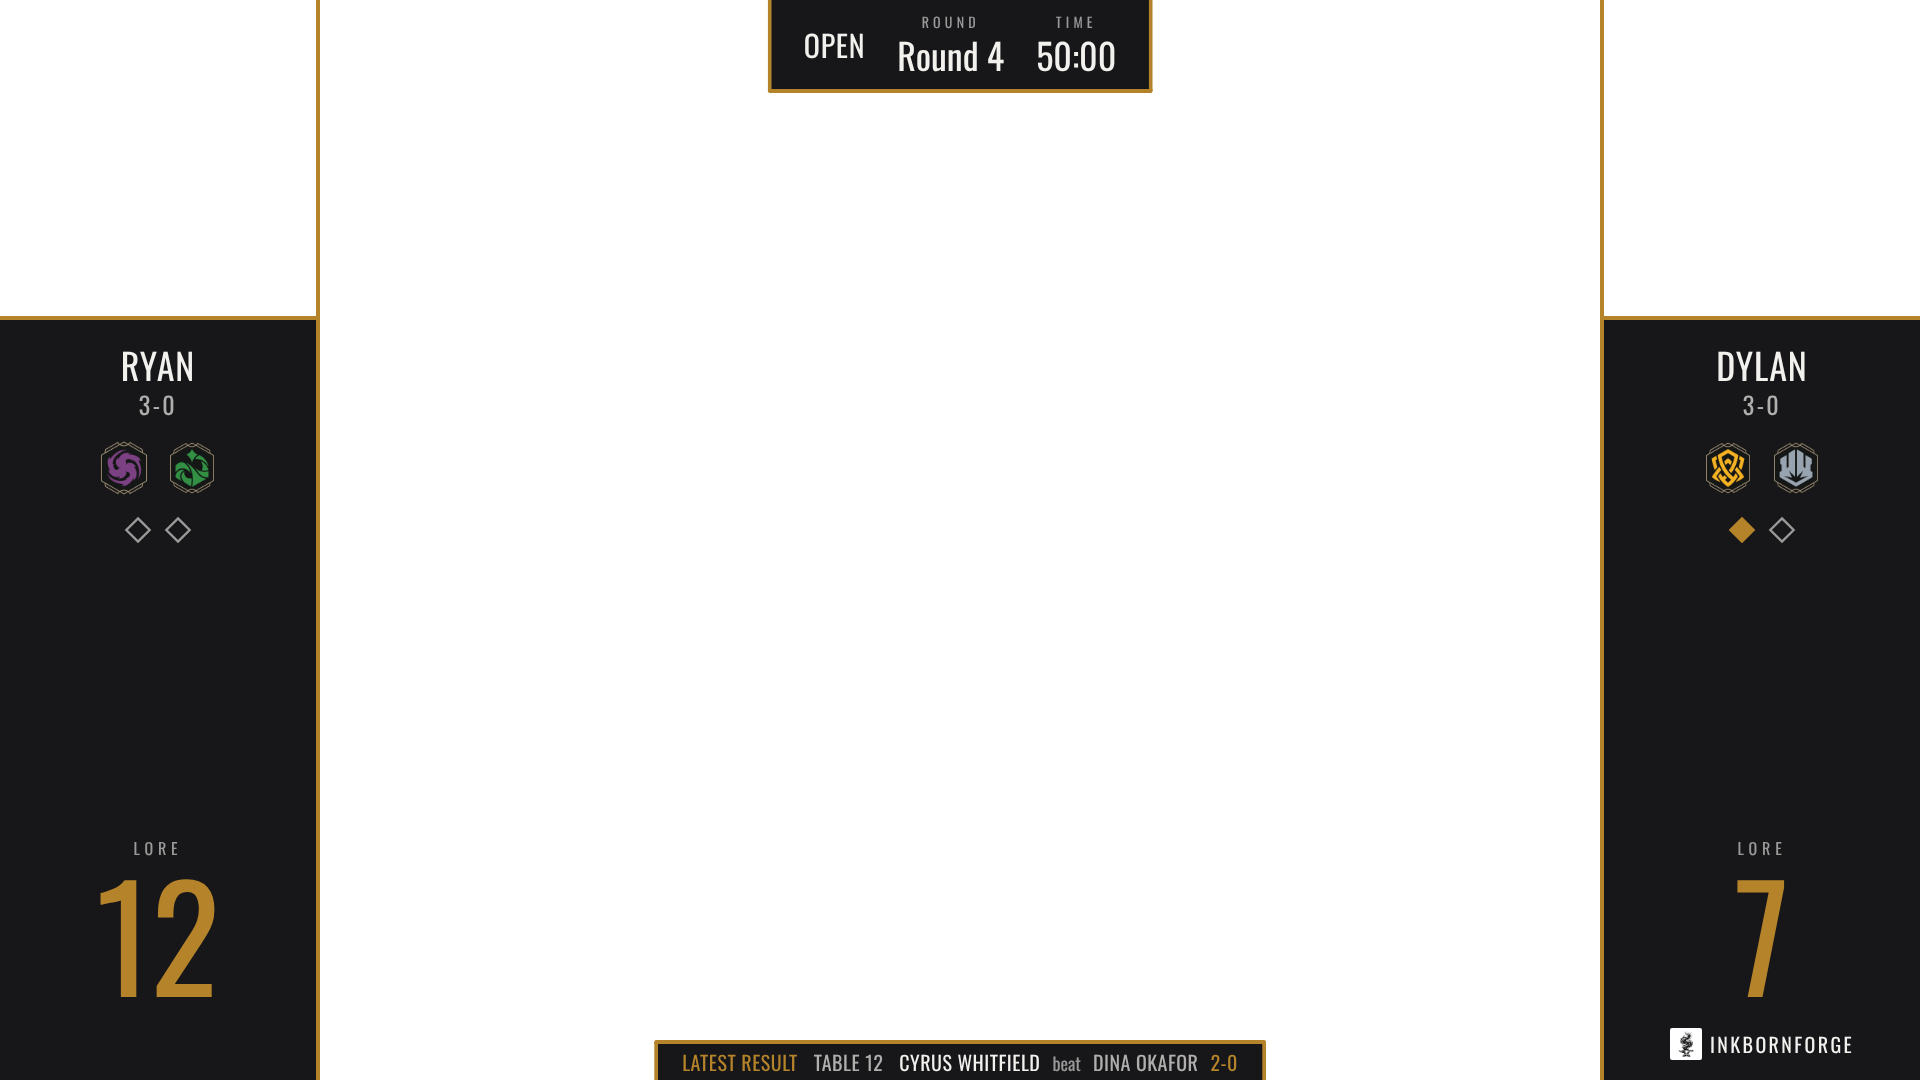
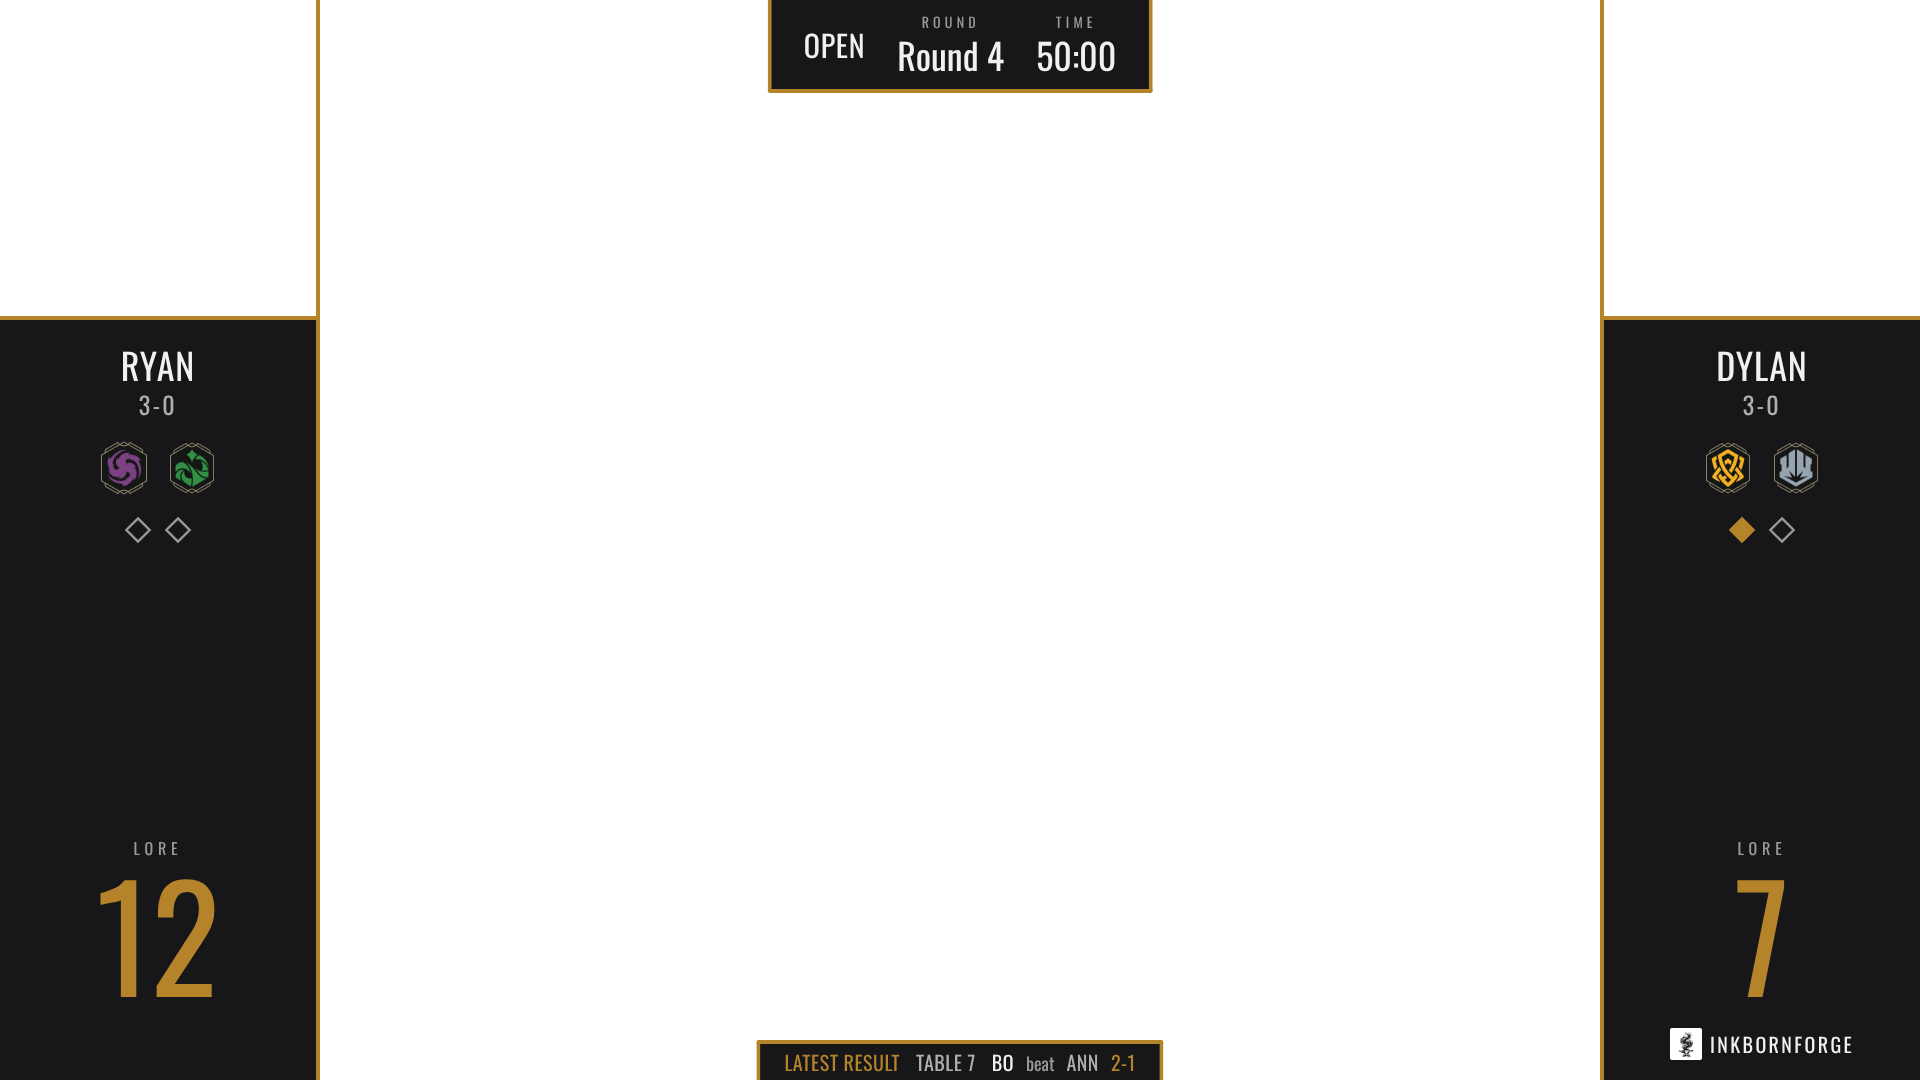
Stream Overlay ticker: slide in on a new result, hold 20 s, slide out
A result arriving while the strip is up swaps the text and restarts the
hold. Results reach the row at most once per 15 s RPH poll, so a big round
shows the newest result each poll and slides away 20 s after the last.
The result already on the row when the view loads isn't replayed.

Claude-Session: https://claude.ai/code/session_01TJQgt1f6UxbMMtrzmEn5SZ

Changed region(s): [[0.3438, 0.9472, 0.6562, 1.0]]

diff --git a/src/pages/StreamOverlayViewPage.jsx b/src/pages/StreamOverlayViewPage.jsx
@@ -85,7 +85,7 @@ export function StreamOverlayViewPage() {
           {state.cardShown && !state.metaShown && state.playerCard && <PlayerCardPanel state={state} card={state.playerCard} edge={edge} />}
           {state.metaShown && <MetaPanel state={state} framed edge={edge} />}
           <TopBanner state={state} now={now} winner={winner} />
-          <ResultTicker results={state.results} />
+          <ResultTicker results={state.results} now={now} />
         </>
       )}
     </div>
@@ -367,21 +367,36 @@ function TopBanner({ state, now, winner }) {
 }
 
 // The linked event's most recently reported result, bottom-center below the
-// panels over the cam (they stop 40px above the frame's bottom edge).
-function ResultTicker({ results }) {
+// panels over the cam (they stop 40px above the frame's bottom edge). A new
+// result slides it in for RESULT_HOLD_MS; one arriving while it's up swaps the
+// text and restarts the hold. The panel writes results at most once per RPH
+// poll (15 s), so in a big round the strip stays up and shows the newest one
+// every poll, skipping those between. The result already on the row when the
+// view loads counts as seen, so reloading the source doesn't replay it.
+const RESULT_HOLD_MS = 20 * 1000
+
+function ResultTicker({ results, now }) {
   const m = latestResult(results)
-  if (!m) return null
-  const line = resultLine(m)
+  const key = m ? `${m.table}@${m.reportedAt}` : null
+  const [arrival, setArrival] = useState({ key, at: null })
+  if (arrival.key !== key) setArrival({ key, at: key ? now : null })
+  const shown = arrival.at !== null && now - arrival.at < RESULT_HOLD_MS
+  const line = m && resultLine(m)
+  // Mounted while empty too, so the round's first result slides in.
   return (
-    <div className="absolute bottom-0 left-1/2 -translate-x-1/2 h-10 flex items-center gap-4 px-6 bg-(--fill) border-x-4 border-t-4 border-(--accent) rounded-t-lg text-xl uppercase tracking-wide whitespace-nowrap max-w-[1100px]">
-      <span className="text-(--accent)">Latest result</span>
-      <span className="text-(--on-fill)/70">{m.table != null ? `Table ${m.table}` : results.round}</span>
-      <span className="flex items-baseline gap-3 min-w-0">
-        <span className="truncate">{line.first}</span>
-        <span className="normal-case tracking-normal text-lg text-(--on-fill)/60">{line.verb}</span>
-        <span className={`truncate ${m.winner === null ? '' : 'text-(--on-fill)/70'}`}>{line.second}</span>
-        {line.score && <span className="tabular-nums text-(--accent)">{line.score}</span>}
-      </span>
+    <div className={`absolute bottom-0 left-1/2 -translate-x-1/2 ${shown ? 'translate-y-0' : 'translate-y-full'} transition-transform duration-500 h-10 flex items-center gap-4 px-6 bg-(--fill) border-x-4 border-t-4 border-(--accent) rounded-t-lg text-xl uppercase tracking-wide whitespace-nowrap max-w-[1100px]`}>
+      {m && (
+        <>
+          <span className="text-(--accent)">Latest result</span>
+          <span className="text-(--on-fill)/70">{m.table != null ? `Table ${m.table}` : results.round}</span>
+          <span className="flex items-baseline gap-3 min-w-0">
+            <span className="truncate">{line.first}</span>
+            <span className="normal-case tracking-normal text-lg text-(--on-fill)/60">{line.verb}</span>
+            <span className={`truncate ${m.winner === null ? '' : 'text-(--on-fill)/70'}`}>{line.second}</span>
+            {line.score && <span className="tabular-nums text-(--accent)">{line.score}</span>}
+          </span>
+        </>
+      )}
     </div>
   )
 }

diff --git a/docs/agents/stream-overlay.md b/docs/agents/stream-overlay.md
@@ -39,7 +39,7 @@ Verified once against the real project with an anonymous client: direct table re
 ## Four surfaces
 
 - **Panel** `/stream-overlay` (`StreamOverlayPage.jsx`, supporter-gated). Lists the owner's tables; the first is an explicit click, never auto-created (a mount effect that created one ran twice under StrictMode and made two). Every edit is an optimistic local change plus a column `update` (`updateTable()`). From the row's broadcasts the panel adopts **only** the four score columns and `rph_event_id`; adopting the echo of a keystroke would clobber the next one. Selected table in localStorage `lorcana_stream_table`. Hotkeys (`HOTKEYS` / `hotkeyAction()`): Q/A W/S left player lore and game wins, I/K O/L right, B Live/Break, 1/2 a deck, 3 the player card, 4 the metagame, N Next game, X both featured cards off; letters only, ignored with a modifier or while typing.
-- **View** `/stream-overlay/view?table=<id>` (`StreamOverlayViewPage.jsx`, unguarded, the one OBS Browser Source). Fixed 1920×1080 frame: opaque side columns with a transparent square cutout for each player cam, a top banner (logos, round, timer), everything else transparent. Winner is derived (`winnerIndex()` at `MAX_GAME_WINS`), shown in a reserved fixed-height slot so the other column never moves. `mode = 'break'` renders the opaque break screen instead: `breakHeadline()` from the score (2 wins "Final", 0-0 "Next match", else "Match in progress"), the round clock while it has time, and the `break_panel`. A player's name steps down a size class as it outgrows its slot (`nameSizeClass()`); the lore number pulses at `WINNING_LORE` (20) as a cue only, never an automatic win. While the table is linked to an RPH event, a `ResultTicker` bottom-center (below the panels over the cam, which stop 40px above the edge) shows the round's most recently reported result: `latestResult()` picks the finished, non-bye match with the newest `reportedAt` (Play Hub's match `updated_at`, which moves when the match is reported), `resultLine()` splits it into the two names, the verb ("beat" or "drew with", styled apart from the names) and the score. With `lore_track` on, the big lore number leaves the column and a full-height `LoreTrack` strip (WIN, 20 down to START, an accent marker on the player's lore) sits against each column's inner edge; the panels over the gameplay cam move in by its width (`edge`), and the space it frees at the bottom of the column is unused.
+- **View** `/stream-overlay/view?table=<id>` (`StreamOverlayViewPage.jsx`, unguarded, the one OBS Browser Source). Fixed 1920×1080 frame: opaque side columns with a transparent square cutout for each player cam, a top banner (logos, round, timer), everything else transparent. Winner is derived (`winnerIndex()` at `MAX_GAME_WINS`), shown in a reserved fixed-height slot so the other column never moves. `mode = 'break'` renders the opaque break screen instead: `breakHeadline()` from the score (2 wins "Final", 0-0 "Next match", else "Match in progress"), the round clock while it has time, and the `break_panel`. A player's name steps down a size class as it outgrows its slot (`nameSizeClass()`); the lore number pulses at `WINNING_LORE` (20) as a cue only, never an automatic win. While the table is linked to an RPH event, a `ResultTicker` bottom-center (below the panels over the cam, which stop 40px above the edge) shows the round's most recently reported result: `latestResult()` picks the finished, non-bye match with the newest `reportedAt` (Play Hub's match `updated_at`, which moves when the match is reported), `resultLine()` splits it into the two names, the verb ("beat" or "drew with", styled apart from the names) and the score. A new result slides the strip up for 20 s (`RESULT_HOLD_MS`); one arriving while it's up swaps the text and restarts the hold. The panel writes `results` at most once per 15 s poll, so in a big round the strip stays up through the reporting rush, showing the newest result each poll and skipping the ones between, then slides away 20 s after the last. The result already on the row when the view loads counts as seen, so reloading the Browser Source doesn't replay it. With `lore_track` on, the big lore number leaves the column and a full-height `LoreTrack` strip (WIN, 20 down to START, an accent marker on the player's lore) sits against each column's inner edge; the panels over the gameplay cam move in by its width (`edge`), and the space it frees at the bottom of the column is unused.
 - **Controller** `/stream-overlay/control?table=<id>&key=<controller key>` (unguarded): a tablet at the table, lore and game-win taps per player, the round clock across the top.
 - **Caster notes** `/stream-overlay/notes?table=<id>` (unguarded): the row as text for a second screen: `casterPoints()` per player, archive finishes, decklists, head-to-head, the round's `results` and live score, the full `standings` in columns across the bottom.
 
